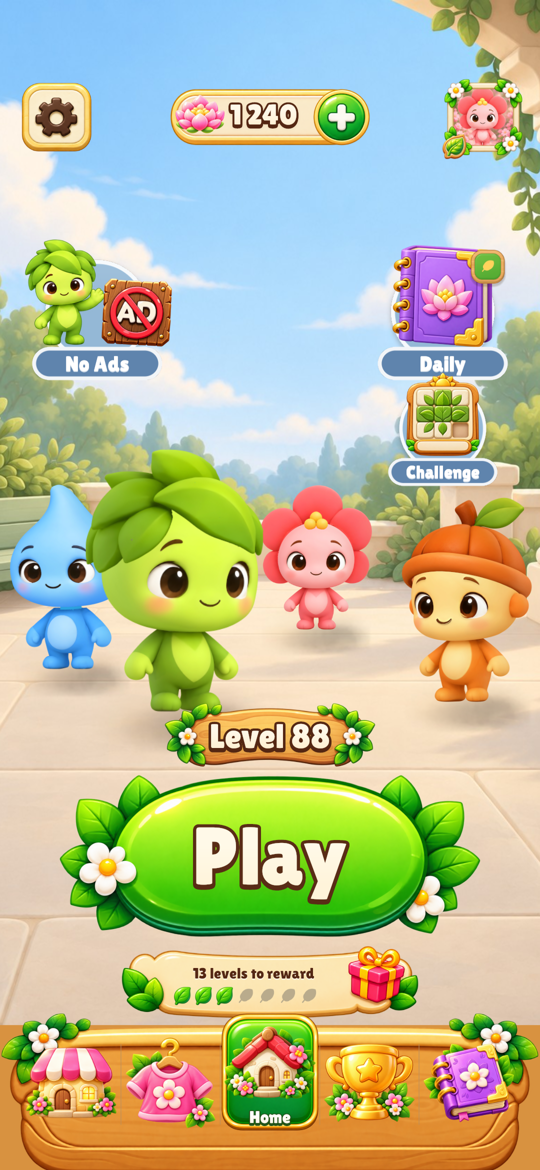
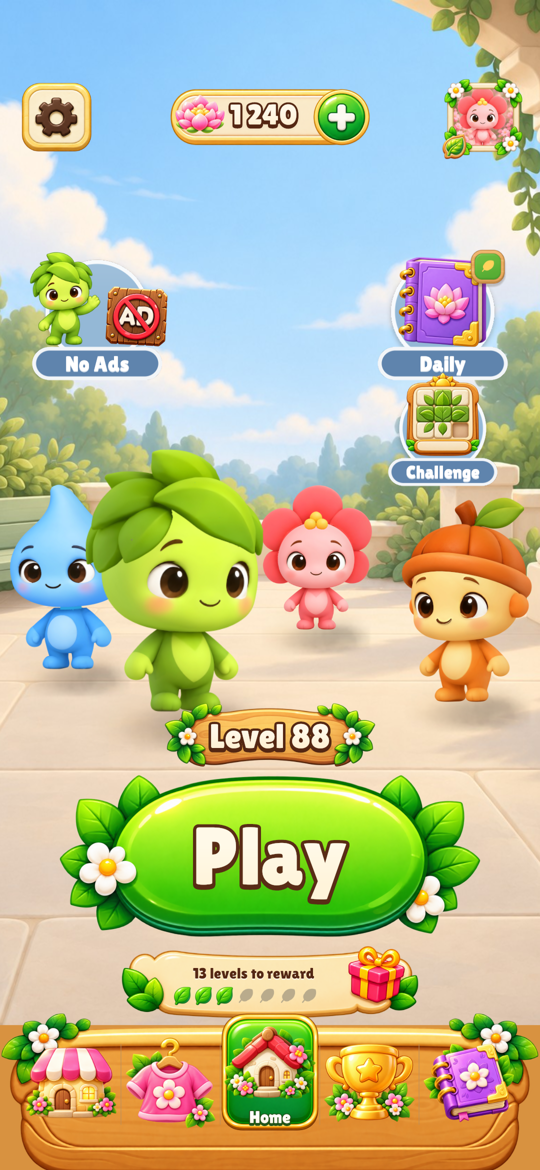
Home: No Ads and Daily badge art a little smaller; five badge colours to choose
The owner (2026-10-31): the No Ads and Daily content a little smaller, and
five colours for the badges to choose from.

- HomePromo.BadgeArtScale 1.25 -> 1.1 (the Daily Challenge's board keeps its
  size).
- product/previews/home-terrace-2026-10-31/badge-colours.png: the same Home
  frame with five disc / label colours (grey blue, sage, stone, lavender,
  teal). The game keeps grey blue until the owner chooses.

Claude-Session: https://claude.ai/code/session_015MFFqpKVAaPopMAf2NPWry

Changed region(s): [[0.0296, 0.1846, 0.3259, 0.3077], [0.7111, 0.1846, 0.9185, 0.3077]]

diff --git a/client/Assets/Bloomlings/UI/Design/HomePromo.cs b/client/Assets/Bloomlings/UI/Design/HomePromo.cs
@@ -294,7 +294,7 @@ namespace Bloomlings.Client.UI.Design
         /// How much the scene's props are scaled on the badge (they stood on the stand before): big enough to reach out over
         /// the outline at the top and the sides (the owner, 2026-10-31: "bigger, it must go out past the outline").
         /// </summary>
-        public const float BadgeArtScale = 1.25f;
+        public const float BadgeArtScale = 1.1f;
 
         /// <summary>
         /// How far the props stand apart across the badge against the stand: less than <see cref="BadgeArtScale"/>, so the

diff --git a/product/previews/home-terrace-2026-10-31/README.md b/product/previews/home-terrace-2026-10-31/README.md
@@ -17,10 +17,14 @@ the outline; the heroes closer and bigger"):
 
 - `ui.promo.badge` is a quiet grey blue a little deeper than the sky (#94B8D6, was #3F86D8), the label pill a muted
   deeper blue (#5F84AD) for its white letters.
-- The props on a badge are scaled 1.25 about their feet (was 0.85) and stand 0.95 as far apart across
+- The props on a badge are scaled 1.25 about their feet (was 0.85; 1.1 after the owner's "a little smaller" the same day) and stand 0.95 as far apart across
   (`HomePromo.BadgeSpread`), so they gather over the badge and reach out over its outline at the top and the sides; the
   Daily Challenge's badge is its box's width, its board 0.9 of the badge and raised so the sun and top corners stand out.
 - The heroes far to near: Bloom 0.22 of the width tall, Drop 0.28, Twig 0.31, Sprig 0.4, their feet lower (closer);
   Twig's hat clears the Challenge label on a 16:9 screen.
 
 Previews: `home-progressed-19.5x9.png`, `home-early-19.5x9.png`, `home-16x9-19.5x9-21x9.png`, `badges-19.5x9.png`.
+
+The badge's colour for the owner to choose (`badge-colours.png`, disc / label pill): 1 grey blue #94B8D6 / #5F84AD (in the
+game until the choice), 2 sage #A9C0A1 / #6C8A62, 3 stone #D6C3A2 / #96764F, 4 lavender #B8AFCE / #7A6EA0, 5 teal
+#9FC9C2 / #5B958C.
